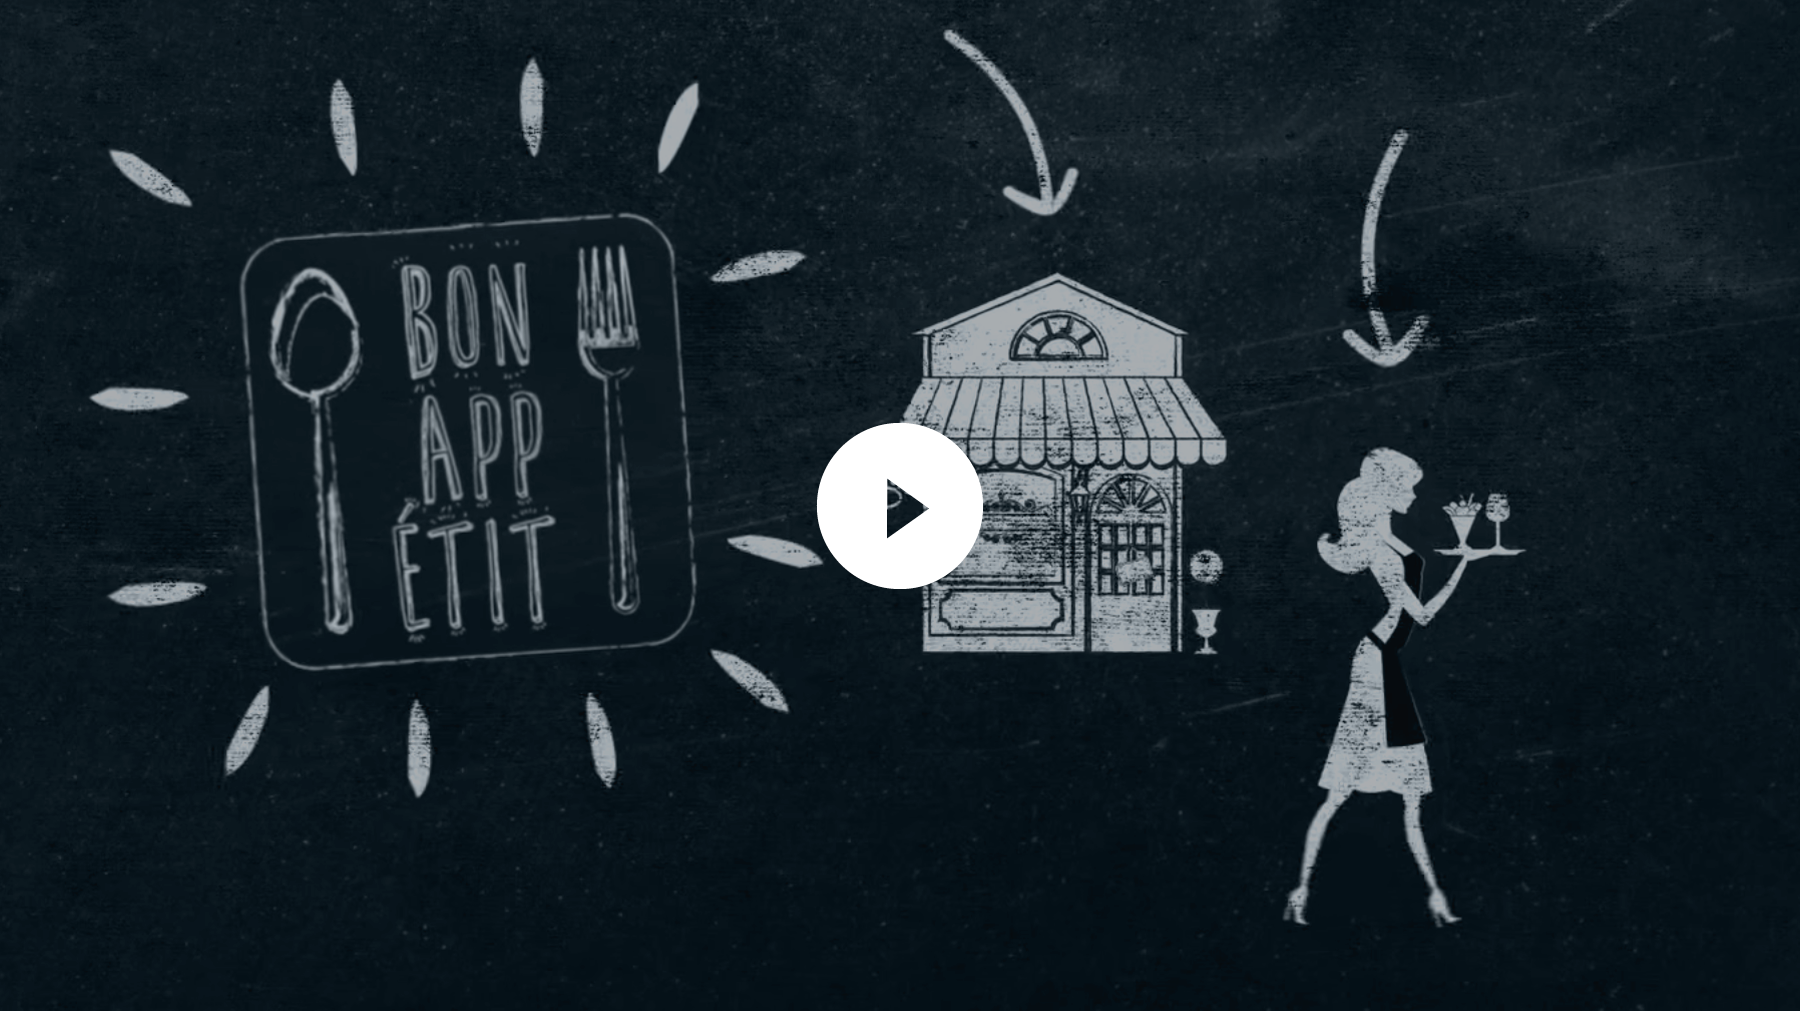
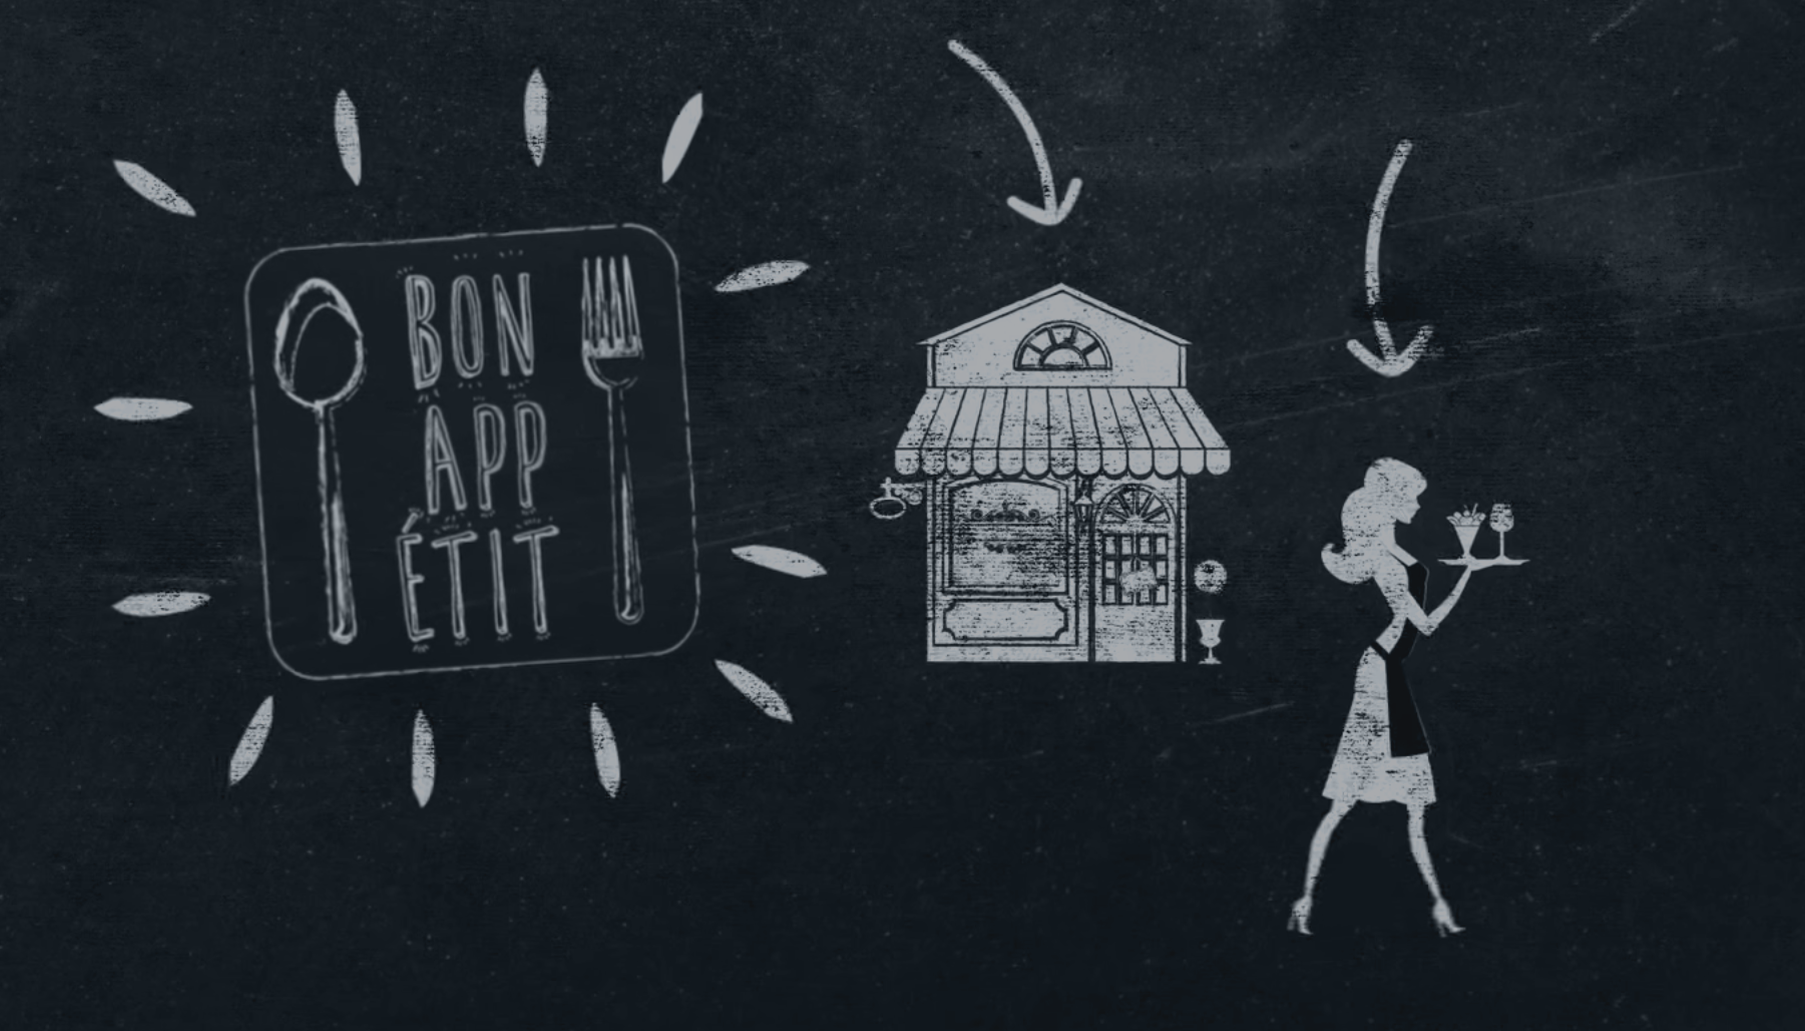
changes on video play button

diff --git a/css/mediaelementplayer.css b/css/mediaelementplayer.css
@@ -109,7 +109,9 @@
 	width: 100px;
 	height: 100px;
 	margin: -50px 0 0 -50px;
-	background: url(bigplay.svg) no-repeat;
+	background: url(bigplay.png) no-repeat;
+	background-size: contain;
+	transition: .3s all ease;
 }
 
 .no-svg .mejs-overlay-button {
@@ -117,7 +119,7 @@
 }
 
 .mejs-overlay:hover .mejs-overlay-button {
-	background-position: 0 -100px ;
+	opacity: 0.9;
 }
 
 .mejs-overlay-loading {
